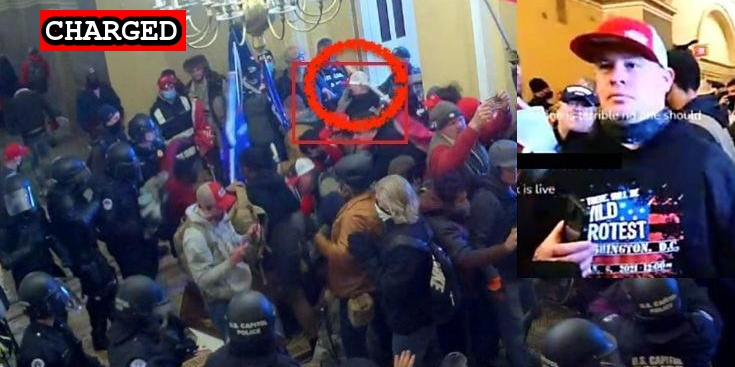
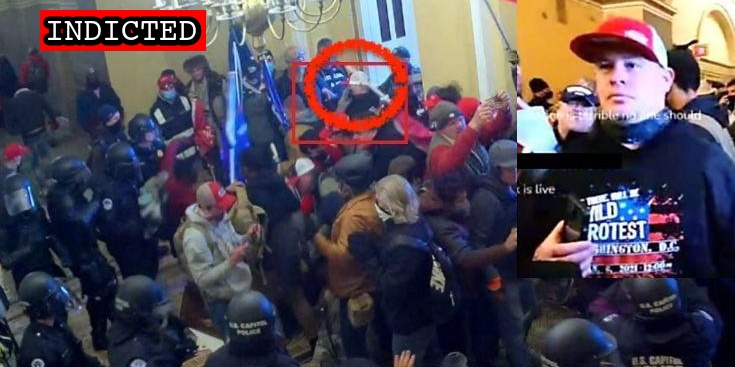
Latest import

Changed region(s): [[0.0299, 0.0, 0.2993, 0.1499]]

diff --git a/docs/_suspects/scott-fairlamb.md b/docs/_suspects/scott-fairlamb.md
@@ -33,25 +33,26 @@ layout: suspect
 published: true
 caseNumber: 1:21-cr-120
 videos:
-- title: Exhibit 2 - Fairlamb Instagram Scaffolding Video.mp4 (0:00:13)
-  url: https://propublica-data-j6cases-videos.s3.us-east-1.amazonaws.com/c492bbc0ce2c013960702cde48001122.mp4
-- title: Exhibit 12 - Clip from _Cop Vs The American People!!_ (compressed).mp4 (0:00:45)
-  url: https://propublica-data-j6cases-videos.s3.us-east-1.amazonaws.com/bc79cfc0ce2c013960702cde48001122.mp4
-- title: Exhibit 8 - Fairlamb Facebook video.mp4 (0:00:08)
-  url: https://propublica-data-j6cases-videos.s3.us-east-1.amazonaws.com/c405c7a0ce2c013960702cde48001122.mp4
-- title: Exhibit 14 - Body worn camera.mp4 (0:00:35)
-  url: https://propublica-data-j6cases-videos.s3.us-east-1.amazonaws.com/c58f4b60ce2c013960702cde48001122.mp4
+  - title: Exhibit 2 - Fairlamb Instagram Scaffolding Video.mp4 (0:00:13)
+    url: https://propublica-data-j6cases-videos.s3.us-east-1.amazonaws.com/c492bbc0ce2c013960702cde48001122.mp4
+  - title: Exhibit 12 - Clip from _Cop Vs The American People!!_ (compressed).mp4 (0:00:45)
+    url: https://propublica-data-j6cases-videos.s3.us-east-1.amazonaws.com/bc79cfc0ce2c013960702cde48001122.mp4
+  - title: Exhibit 8 - Fairlamb Facebook video.mp4 (0:00:08)
+    url: https://propublica-data-j6cases-videos.s3.us-east-1.amazonaws.com/c405c7a0ce2c013960702cde48001122.mp4
+  - title: Exhibit 14 - Body worn camera.mp4 (0:00:35)
+    url: https://propublica-data-j6cases-videos.s3.us-east-1.amazonaws.com/c58f4b60ce2c013960702cde48001122.mp4
 charges:
-- code: 18 USC § 1512(c)(2)
-  title: Obstruction of an official proceeding
-  url: https://www.law.cornell.edu/uscode/text/18/1512
-  felony: true
-- code: 18 USC § 111(a)(1)
-  title: Assaulting, resisting, or impeding certain officers or employees
-  url: https://www.law.cornell.edu/uscode/text/18/111
-  felony: true
+  - code: 18 USC § 1512(c)(2)
+    title: Obstruction of an official proceeding
+    url: https://www.law.cornell.edu/uscode/text/18/1512
+    felony: true
+  - code: 18 USC § 111(a)(1)
+    title: Assaulting, resisting, or impeding certain officers or employees
+    url: https://www.law.cornell.edu/uscode/text/18/111
+    felony: true
 sentence:
 ---
+
 - [News Report](https://abc7ny.com/local-dc-riot-arrests-nyc-sanitation-worker-arrested/9900913/)
 - [Complaint](https://www.justice.gov/opa/page/file/1359221/download)
 - [DOJ Press Release](https://www.justice.gov/usao-dc/pr/three-charged-federal-court-assaulting-and-impeding-local-and-federal-officers-during-us)

diff --git a/docs/_suspects/jia-liu.md b/docs/_suspects/jia-liu.md
@@ -1,0 +1,41 @@
+---
+name: Jia Liu
+lastName: Liu
+hashtag:
+aka:
+residence: New York
+status: Charged
+date: 2021-10-21
+charged: 2021-10-21
+indicted:
+convicted:
+sentenced:
+dismissed:
+deceased:
+plea_hearing:
+sentencing:
+age:
+occupation:
+affiliations:
+jurisdiction: Federal
+image: /images/preview/jia-liu.jpg
+suspect: jia-liu.jpg
+booking:
+courtroom:
+courthouse:
+raid:
+perpwalk:
+quote:
+title: Jia Liu charged on October 21, 2021
+description: Click for latest case details. Suspects innocent until proven guilty.
+author: seditiontrack
+layout: suspect
+published: false
+caseNumber:
+videos:
+charges:
+sentence:
+---
+
+- [News Report]()
+- [Statement of Facts](https://extremism.gwu.edu/sites/g/files/zaxdzs2191/f/Jia%20Liu%20Statement%20of%20Facts.pdf)

diff --git a/docs/_suspects/michael-fitzgerald.md b/docs/_suspects/michael-fitzgerald.md
@@ -4,10 +4,10 @@ lastName: Fitzgerald
 hashtag: WildProtestBro
 aka:
 residence: Wisconsin
-status: Charged
+status: Indicted
 date: 2021-04-02
 charged: 2021-04-02
-indicted:
+indicted: 2021-04-28
 convicted:
 sentenced:
 dismissed:
@@ -36,5 +36,7 @@ videos:
 charges:
 sentence:
 ---
+
 - [News Report](https://madison.com/wsj/news/local/crime-and-courts/janesville-man-charged-for-alleged-role-in-u-s-capitol-riot-in-january/article_a3fcd5eb-9eec-54b3-a206-fda42d1dade0.html)
 - [Statement of Facts](https://www.justice.gov/usao-dc/case-multi-defendant/file/1389201/download)
+- [Indictment](https://extremism.gwu.edu/sites/g/files/zaxdzs2191/f/Michael%20Fitzgerald%20Indictment.pdf)

diff --git a/docs/_suspects/sean-watson.md b/docs/_suspects/sean-watson.md
@@ -39,3 +39,4 @@ sentence:
 - [News Report](https://www.kwtx.com/2021/04/30/alpine-man-involved-in-january-capitol-riots-now-facing-charges/)
 - [Complaint](https://www.justice.gov/usao-dc/case-multi-defendant/file/1390656/download)
 - [Statement of Facts](https://www.justice.gov/usao-dc/case-multi-defendant/file/1390661/download)
+- [Information](https://extremism.gwu.edu/sites/g/files/zaxdzs2191/f/Sean%20Watson%20Information.pdf)

diff --git a/docs/_suspects/kerry-persick.md b/docs/_suspects/kerry-persick.md
@@ -38,3 +38,4 @@ sentence:
 ---
 - [News Report](https://www.dallasnews.com/news/crime/2021/05/18/tarrant-county-man-recorded-video-from-inside-us-capitol-during-mob-siege-feds-say/)
 - [Statement of Facts](https://extremism.gwu.edu/sites/g/files/zaxdzs2191/f/Kerry%20Wayne%20Persick%20Statement%20of%20Facts.pdf)
+- [Information](https://extremism.gwu.edu/sites/g/files/zaxdzs2191/f/Kerry%20Wayne%20Persick%20Information.pdf)

diff --git a/docs/_suspects/justin-mcauliffe.md b/docs/_suspects/justin-mcauliffe.md
@@ -36,7 +36,7 @@ videos:
 charges:
 sentence:
 ---
-
 - [News Report](https://nypost.com/2021/01/28/cpa-justin-mcauliffe-busted-for-role-in-deadly-capitol-riot/)
 - [Complaint](https://www.justice.gov/opa/page/file/1361466/download)
 - [Statement of Facts](https://www.justice.gov/opa/page/file/1361466/download)
+- [Information](https://extremism.gwu.edu/sites/g/files/zaxdzs2191/f/Justin%20McAuliffe%20Information.pdf)

diff --git a/docs/_suspects/kim-sorgente.md b/docs/_suspects/kim-sorgente.md
@@ -38,3 +38,4 @@ sentence:
 ---
 - [News Report](https://losangeles.cbslocal.com/2021/10/26/huntington-beach-resident-arrested-for-involvement-in-capitol-riots/)
 - [Criminal Complaint](https://extremism.gwu.edu/sites/g/files/zaxdzs2191/f/Kim%20Michael%20Sorgate%20Criminal%20Complaint.pdf)
+- [Complaint](https://extremism.gwu.edu/sites/g/files/zaxdzs2191/f/Kim%20Michael%20Sorgate%20Criminal%20Complaint.pdf)

diff --git a/docs/_suspects/william-vogel.md b/docs/_suspects/william-vogel.md
@@ -39,3 +39,4 @@ sentence:
 - [News Report](https://www.msn.com/en-us/news/crime/dutchess-man-charged-for-taking-part-in-capitol-riot-fbi/ar-BB1d9jwd)
 - [Statement of Facts](https://www.justice.gov/opa/page/file/1360591/download)
 - [Complaint](https://www.justice.gov/opa/page/file/1360591/download)
+- [Information](https://extremism.gwu.edu/sites/g/files/zaxdzs2191/f/William%20Vogel%20Information.pdf)

diff --git a/docs/_suspects/thomas-fee.md b/docs/_suspects/thomas-fee.md
@@ -38,3 +38,4 @@ sentence:
 ---
 - [News Report](https://nypost.com/2021/01/23/retired-fdny-member-arrested-for-role-in-capitol-riot/)
 - [Statement of Facts](https://www.justice.gov/usao-dc/case-multi-defendant/file/1371381/download)
+- [Information](https://extremism.gwu.edu/sites/g/files/zaxdzs2191/f/Thomas%20Fee%20Information.pdf)
